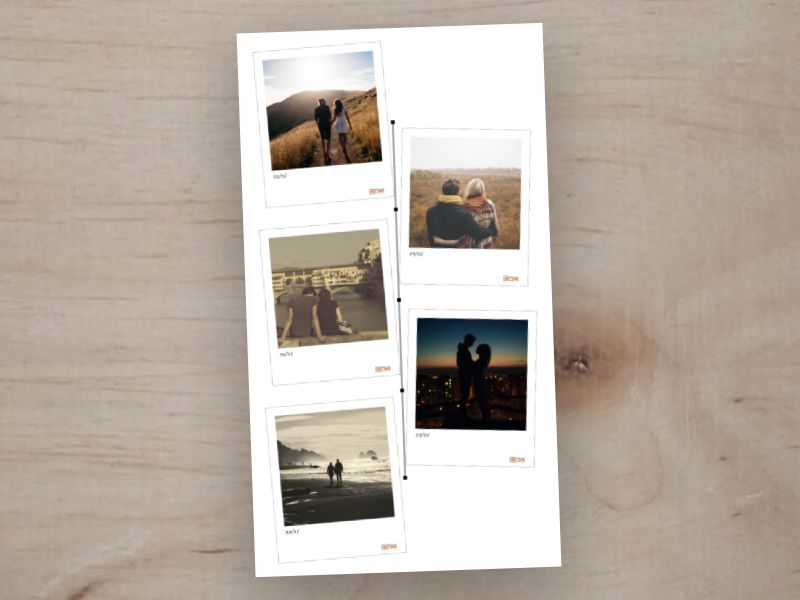
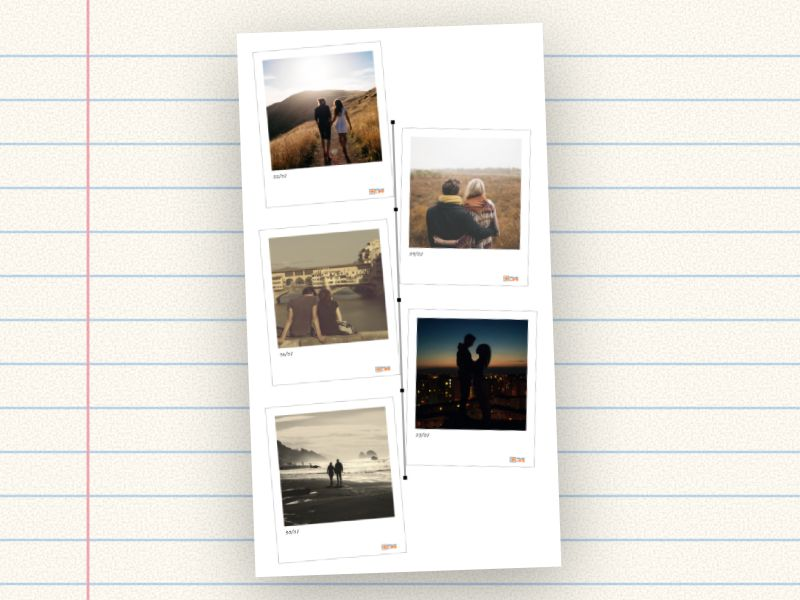
feat: sugestões com fundos de redes sociais e 9 sugestões novas (D-207)
- Sai o fundo de madeira: cada sugestão tem um fundo desenhado no gerar-vitrine
  (céu, degradês, pastel, cortiça, terrazzo, linho, caderno, confete, xadrez)
- 24 sugestões: photo dump, retrospectiva, aniversário, melhores amigas, nossa
  história, antes e depois, virada do ano, férias em mosaico e pôster de fotos,
  só com tamanhos e layouts que já existem
- testar-projetos-hub e testar-sugestoes contam 24 e conferem as novas

diff --git a/site/app/index.html b/site/app/index.html
@@ -53,20 +53,29 @@
 <div class="sugs" role="region" aria-label="Sugestões para começar" tabindex="0">
 <ul class="sugs__l" id="sugs">
 <li><button type="button" class="sug" data-sug="viagem"><img class="sug__img" src="../assets/img/vitrine/sug-viagem.jpg" alt="" width="400" height="300" loading="eager" decoding="async"><span class="sug__txt"><strong>Viagem com a turma</strong><small>Clássica 88 × 107 mm · para imprimir e recortar</small></span></button></li>
+<li><button type="button" class="sug" data-sug="dump"><img class="sug__img" src="../assets/img/vitrine/sug-dump.jpg" alt="" width="400" height="300" loading="eager" decoding="async"><span class="sug__txt"><strong>Photo dump do mês</strong><small>Feed 4:5 · 1080 × 1350 · mural do mês</small></span></button></li>
 <li><button type="button" class="sug" data-sug="status-tira"><img class="sug__img" src="../assets/img/vitrine/sug-status-tira.jpg" alt="" width="400" height="300" loading="eager" decoding="async"><span class="sug__txt"><strong>Tira para o status</strong><small>Stories 9:16 · 1080 × 1920 · status e reels</small></span></button></li>
 <li><button type="button" class="sug" data-sug="coracao"><img class="sug__img" src="../assets/img/vitrine/sug-coracao.jpg" alt="" width="400" height="300" loading="eager" decoding="async"><span class="sug__txt"><strong>Coração de verão</strong><small>Colagem em coração · A4 deitado</small></span></button></li>
-<li><button type="button" class="sug" data-sug="cidade"><img class="sug__img" src="../assets/img/vitrine/sug-cidade.jpg" alt="" width="400" height="300" loading="eager" decoding="async"><span class="sug__txt"><strong>Rolê na cidade</strong><small>Instax Mini 54 × 86 mm · tamanho de cartão</small></span></button></li>
+<li><button type="button" class="sug" data-sug="cidade"><img class="sug__img" src="../assets/img/vitrine/sug-cidade.jpg" alt="" width="400" height="300" loading="lazy" decoding="async"><span class="sug__txt"><strong>Rolê na cidade</strong><small>Instax Mini 54 × 86 mm · tamanho de cartão</small></span></button></li>
+<li><button type="button" class="sug" data-sug="aniversario"><img class="sug__img" src="../assets/img/vitrine/sug-aniversario.jpg" alt="" width="400" height="300" loading="lazy" decoding="async"><span class="sug__txt"><strong>Parabéns pra você</strong><small>Feed 4:5 · uma foto grande e as da festa</small></span></button></li>
 <li><button type="button" class="sug" data-sug="status-varal"><img class="sug__img" src="../assets/img/vitrine/sug-status-varal.jpg" alt="" width="400" height="300" loading="lazy" decoding="async"><span class="sug__txt"><strong>Varal no stories</strong><small>Stories 9:16 · polaroids penduradas</small></span></button></li>
+<li><button type="button" class="sug" data-sug="retrospectiva"><img class="sug__img" src="../assets/img/vitrine/sug-retrospectiva.jpg" alt="" width="400" height="300" loading="lazy" decoding="async"><span class="sug__txt"><strong>Retrospectiva do ano</strong><small>Quadrado 1:1 · 1080 × 1080 · os melhores momentos</small></span></button></li>
 <li><button type="button" class="sug" data-sug="varal"><img class="sug__img" src="../assets/img/vitrine/sug-varal.jpg" alt="" width="400" height="300" loading="lazy" decoding="async"><span class="sug__txt"><strong>Varal de memórias</strong><small>Colagem em tira, para pendurar</small></span></button></li>
 <li><button type="button" class="sug" data-sug="casal"><img class="sug__img" src="../assets/img/vitrine/sug-casal.jpg" alt="" width="400" height="300" loading="lazy" decoding="async"><span class="sug__txt"><strong>Nós dois</strong><small>Retro Pocket 66 × 99 mm · letra caligráfica</small></span></button></li>
+<li><button type="button" class="sug" data-sug="antes-depois"><img class="sug__img" src="../assets/img/vitrine/sug-antes-depois.jpg" alt="" width="400" height="300" loading="lazy" decoding="async"><span class="sug__txt"><strong>Antes e depois</strong><small>Stories 9:16 · duas fotos, uma sobre a outra</small></span></button></li>
 <li><button type="button" class="sug" data-sug="status-tempo"><img class="sug__img" src="../assets/img/vitrine/sug-status-tempo.jpg" alt="" width="400" height="300" loading="lazy" decoding="async"><span class="sug__txt"><strong>Linha do tempo vertical</strong><small>Stories 9:16 · na ordem das datas</small></span></button></li>
 <li><button type="button" class="sug" data-sug="mesa"><img class="sug__img" src="../assets/img/vitrine/sug-mesa.jpg" alt="" width="400" height="300" loading="lazy" decoding="async"><span class="sug__txt"><strong>Mesa de recordações</strong><small>Colagem espalhada sobre uma foto</small></span></button></li>
+<li><button type="button" class="sug" data-sug="amigas"><img class="sug__img" src="../assets/img/vitrine/sug-amigas.jpg" alt="" width="400" height="300" loading="lazy" decoding="async"><span class="sug__txt"><strong>Melhores amigas</strong><small>Quadrado 1:1 · polaroids espalhadas</small></span></button></li>
 <li><button type="button" class="sug" data-sug="praia"><img class="sug__img" src="../assets/img/vitrine/sug-praia.jpg" alt="" width="400" height="300" loading="lazy" decoding="async"><span class="sug__txt"><strong>Dias de praia</strong><small>Mini quadrado 60 × 73 mm · para imprimir</small></span></button></li>
 <li><button type="button" class="sug" data-sug="status-capa"><img class="sug__img" src="../assets/img/vitrine/sug-status-capa.jpg" alt="" width="400" height="300" loading="lazy" decoding="async"><span class="sug__txt"><strong>Capa do status</strong><small>Stories 9:16 · uma foto em destaque</small></span></button></li>
 <li><button type="button" class="sug" data-sug="familia"><img class="sug__img" src="../assets/img/vitrine/sug-familia.jpg" alt="" width="400" height="300" loading="lazy" decoding="async"><span class="sug__txt"><strong>Família reunida</strong><small>Instax Wide 108 × 86 mm · fotos deitadas</small></span></button></li>
+<li><button type="button" class="sug" data-sug="historia"><img class="sug__img" src="../assets/img/vitrine/sug-historia.jpg" alt="" width="400" height="300" loading="lazy" decoding="async"><span class="sug__txt"><strong>Nossa história</strong><small>Feed 4:5 · linha do tempo do casal</small></span></button></li>
 <li><button type="button" class="sug" data-sug="status-mural"><img class="sug__img" src="../assets/img/vitrine/sug-status-mural.jpg" alt="" width="400" height="300" loading="lazy" decoding="async"><span class="sug__txt"><strong>Mural do fim de semana</strong><small>Stories 9:16 · grade com respiro</small></span></button></li>
+<li><button type="button" class="sug" data-sug="ferias"><img class="sug__img" src="../assets/img/vitrine/sug-ferias.jpg" alt="" width="400" height="300" loading="lazy" decoding="async"><span class="sug__txt"><strong>Férias em mosaico</strong><small>Colagem em mosaico · A4 deitado</small></span></button></li>
 <li><button type="button" class="sug" data-sug="quadradas"><img class="sug__img" src="../assets/img/vitrine/sug-quadradas.jpg" alt="" width="400" height="300" loading="lazy" decoding="async"><span class="sug__txt"><strong>Quadradinhas</strong><small>Instax Square 72 × 86 mm · para imprimir</small></span></button></li>
+<li><button type="button" class="sug" data-sug="virada"><img class="sug__img" src="../assets/img/vitrine/sug-virada.jpg" alt="" width="400" height="300" loading="lazy" decoding="async"><span class="sug__txt"><strong>Virada do ano</strong><small>Feed 4:5 · polaroids penduradas</small></span></button></li>
 <li><button type="button" class="sug" data-sug="status-mesa"><img class="sug__img" src="../assets/img/vitrine/sug-status-mesa.jpg" alt="" width="400" height="300" loading="lazy" decoding="async"><span class="sug__txt"><strong>Mesa no status</strong><small>Stories 9:16 · espalhadas sobre uma foto</small></span></button></li>
+<li><button type="button" class="sug" data-sug="poster"><img class="sug__img" src="../assets/img/vitrine/sug-poster.jpg" alt="" width="400" height="300" loading="lazy" decoding="async"><span class="sug__txt"><strong>Pôster de fotos</strong><small>Colagem em grade · 20 × 30 cm, para a parede</small></span></button></li>
 </ul>
 </div>
 <div class="criar" role="group" aria-label="Criar um projeto">

diff --git a/site/assets/js/pages/home.js b/site/assets/js/pages/home.js
@@ -35,7 +35,18 @@ var SUG={viagem:{nome:'Viagem com a turma',fmt:'classico'},cidade:{nome:'Rolê n
   'status-tempo':{nome:'Linha do tempo vertical',col:{peca:'r916',layout:'tempo',margem:10,fundo:BRANCO}},
   'status-capa':{nome:'Capa do status',col:{peca:'r916',layout:'capa',margem:10,fundo:{tipo:'cor',cor:'#F8F9FA'}}},
   'status-mural':{nome:'Mural do fim de semana',col:{peca:'r916',layout:'mural',margem:10,fundo:BRANCO}},
-  'status-mesa':{nome:'Mesa no status',col:{peca:'r916',layout:'espalhadas',margem:8,fundo:{tipo:'foto',suave:45}}}};
+  'status-mesa':{nome:'Mesa no status',col:{peca:'r916',layout:'espalhadas',margem:8,fundo:{tipo:'foto',suave:45}}},
+  /* mais 9, com os temas mais pedidos nas redes: feed 4:5 (1080 × 1350), quadrado 1:1 (1080 × 1080), stories e duas para imprimir.
+     Só tamanhos e layouts que a Colagem já tem (PLCOLAGEM.PECAS e LAYOUTS); a cor do fundo é conteúdo (DS-13) */
+  dump:{nome:'Photo dump do mês',col:{peca:'r45',layout:'mural',margem:10,fundo:{tipo:'cor',cor:'#F8F9FA'}}},
+  retrospectiva:{nome:'Retrospectiva do ano',col:{peca:'r11',layout:'mural',margem:10,fundo:BRANCO}},
+  aniversario:{nome:'Parabéns pra você',col:{peca:'r45',layout:'capa',margem:10,fundo:{tipo:'gradiente',cor:'#FFF1D6',cor2:'#FFD6E0',ang:160}}},
+  amigas:{nome:'Melhores amigas',col:{peca:'r11',layout:'espalhadas',margem:8,fundo:{tipo:'gradiente',cor:'#FFE1EC',cor2:'#E6DBFF',ang:135}}},
+  historia:{nome:'Nossa história',col:{peca:'r45',layout:'tempo',margem:10,fundo:BRANCO}},
+  'antes-depois':{nome:'Antes e depois',col:{peca:'r916',layout:'cabine',margem:14,fundo:{tipo:'cor',cor:'#F8F9FA'}}},
+  virada:{nome:'Virada do ano',col:{peca:'r45',layout:'varal',margem:10,fundo:{tipo:'gradiente',cor:'#101B3D',cor2:'#3B1F5B',ang:180}}},
+  ferias:{nome:'Férias em mosaico',fmt:'mini',col:{layout:'mosaico',orient:'paisagem',margem:8,fundo:BRANCO}},
+  poster:{nome:'Pôster de fotos',fmt:'mini',col:{peca:'20x30',layout:'grade',margem:10,fundo:BRANCO}}};
 function comecar(o){
   try{['pl-quadro','pl-fotos','pl-folhas','pl-orientacao','pl-fmt','pl-colagem','pl-prevoo','pl-exportar','pl-volta','pl-uma'].forEach(function(k){sessionStorage.removeItem(k)});
     if(o.fmt)sessionStorage.setItem('pl-fmt',o.fmt);

diff --git a/site/app/sw-arquivos.js b/site/app/sw-arquivos.js
@@ -1,5 +1,5 @@
 /* Gerado por tools/gerar-sw.mjs (npm run sw). Não edite à mão. */
-self.PL_VERSAO='3cf787378c11';
+self.PL_VERSAO='b147b8cbb7b8';
 self.PL_ARQUIVOS=[
 "../assets/css/base/fonts.css",
 "../assets/css/base/led.css",
